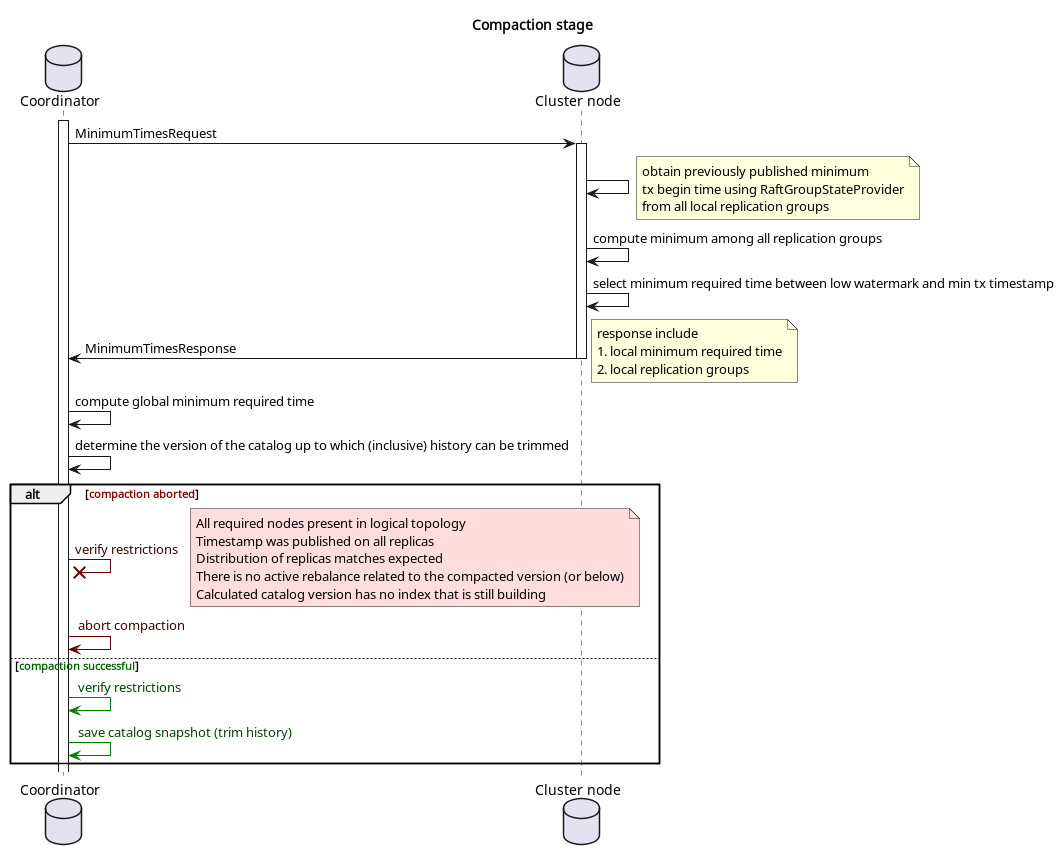
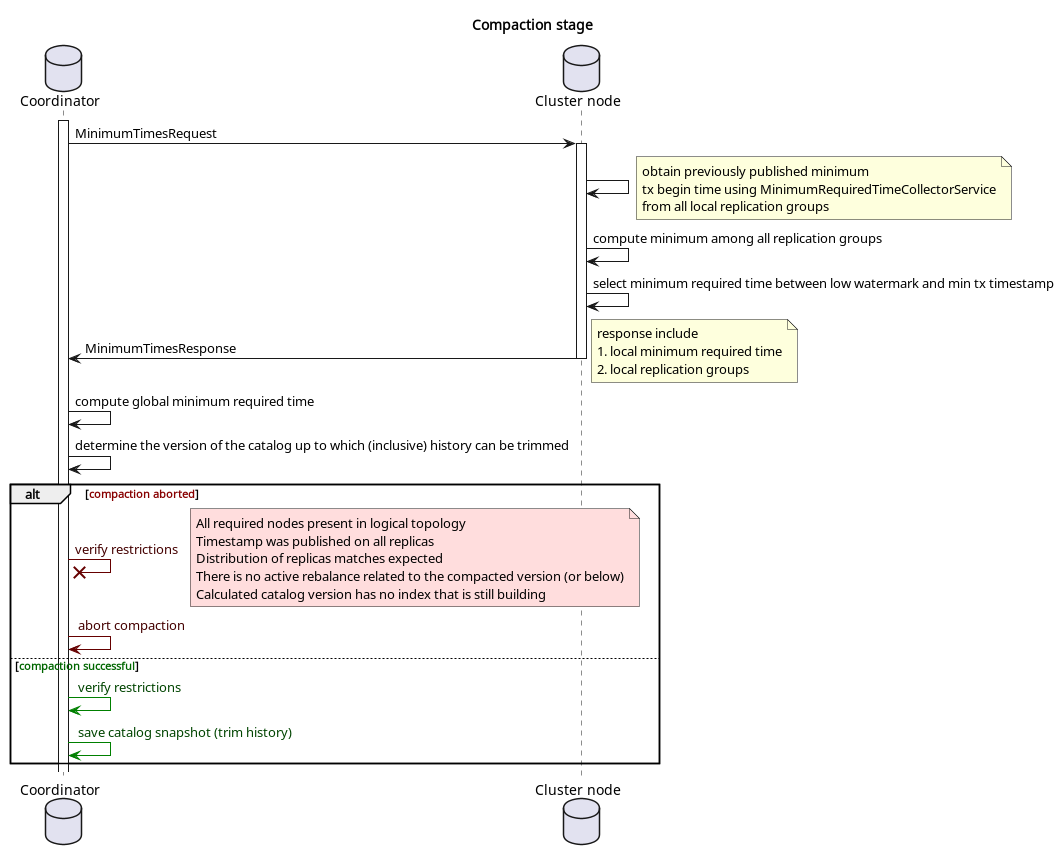
IGNITE-23059 Minor README fixes.

Changed region(s): [[0.716, 0.1814, 0.9651, 0.2721]]

diff --git a/modules/catalog-compaction/src/main/java/org/apache/ignite/internal/catalog/compaction/CatalogCompactionRunner.java b/modules/catalog-compaction/src/main/java/org/apache/ignite/internal/catalog/compaction/CatalogCompactionRunner.java
@@ -23,7 +23,6 @@ import static org.apache.ignite.internal.util.IgniteUtils.inBusyLock;
 import it.unimi.dsi.fastutil.ints.Int2IntMap;
 import it.unimi.dsi.fastutil.ints.Int2IntMap.Entry;
 import it.unimi.dsi.fastutil.objects.ObjectIterator;
-import java.time.Instant;
 import java.util.ArrayList;
 import java.util.BitSet;
 import java.util.Collection;
@@ -36,6 +35,7 @@ import java.util.UUID;
 import java.util.concurrent.CompletableFuture;
 import java.util.concurrent.ConcurrentHashMap;
 import java.util.concurrent.Executor;
+import java.util.concurrent.atomic.AtomicBoolean;
 import java.util.stream.Collectors;
 import org.apache.ignite.internal.catalog.Catalog;
 import org.apache.ignite.internal.catalog.CatalogManagerImpl;
@@ -123,6 +123,8 @@ public class CatalogCompactionRunner implements IgniteComponent {
 
     private final IgniteSpinBusyLock busyLock = new IgniteSpinBusyLock();
 
+    private final AtomicBoolean stopGuard = new AtomicBoolean();
+
     private final MinimumRequiredTimeCollectorService localMinTimeCollectorService;
 
     private final String localNodeName;
@@ -196,6 +198,10 @@ public class CatalogCompactionRunner implements IgniteComponent {
 
     @Override
     public CompletableFuture<Void> stopAsync(ComponentContext componentContext) {
+        if (!stopGuard.compareAndSet(false, true)) {
+            return CompletableFutures.nullCompletedFuture();
+        }
+
         busyLock.block();
 
         return CompletableFutures.nullCompletedFuture();

diff --git a/modules/catalog-compaction/README.md b/modules/catalog-compaction/README.md
@@ -70,7 +70,7 @@ to collect timestamps from the entire cluster in one round trip.
 
 This stage consists of the following steps:
 
-1. Each node uses [ActiveLocalTxMinimumBeginTimeProvider](../transactions/src/main/java/org/apache/ignite/internal/tx/ActiveLocalTxMinimumBeginTimeProvider.java)
+1. Each node uses [ActiveLocalTxMinimumRequiredTimeProvider](../transactions/src/main/java/org/apache/ignite/internal/tx/ActiveLocalTxMinimumRequiredTimeProvider.java)
    to determine the minimum begin time among all local active read-write transactions and sends it to coordinator.
 2. Coordinator calculates global minimum and sends it to all nodes using [CatalogCompactionPrepareUpdateTxBeginTimeMessage](src/main/java/org/apache/ignite/internal/catalog/compaction/message/CatalogCompactionPrepareUpdateTxBeginTimeMessage.java).
 3. Each node stores this time within replication groups for which the local node is the leader  
@@ -84,8 +84,8 @@ This stage consists of the following steps:
 ![Replicas update](tech-notes/compaction.png)
 
 1. Each node determines the local minimum required time, this consists of the following steps:
-   1. Using the introduced `RaftGroupStateProvider` to determine minimum time among all published
-      timestamps (`minTxTime`) in local replication groups.
+   1. Using the introduced [MinimumRequiredTimeCollectorService](../table/src/main/java/org/apache/ignite/internal/table/distributed/raft/MinimumRequiredTimeCollectorService.java)
+      to determine minimum time among all published timestamps (`minTxTime`) in local replication groups.
    2. If `minTxTime` is not published yet, the current iteration of compaction is aborted.
    3. Selects minimum between determined minimum `minTxTime` and current `low watermark`.
 2. Each node sends the calculated local minimum timestamp to the coordinator,
